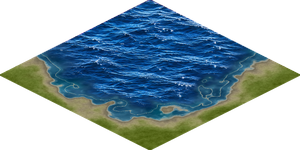
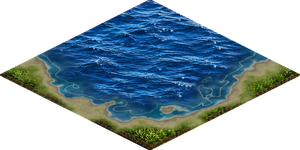
Rivers that run somewhere, and a coast that meets the grass
**The rivers were never an art problem.** A river is drawn as one picture per
tile, chosen by which of the tile's four *edge-sharing* neighbours also carry a
river. The generator walked rivers through the *eight*-neighbour set, which
includes the four tiles that touch only at a corner -- and two tiles sharing a
corner cannot be joined by any picture, because neither appears in the other's
mask. Both are drawn as a stub running to an edge with nothing on the far side.

So roughly a third of every river was orphaned: measured on three seeds, 15 of
45, 18 of 50 and 19 of 44 tiles had nowhere for their water to go. They were
generated in one adjacency and drawn in another, which is what "the rivers make
no sense" was. The walk now takes only edge-sharing steps, and the distance to
the sea is measured the same way so a river cannot stop one tile short of a mouth
it believes it has reached. A test generates worlds and fails on any orphan.

**The coast now meets the grass.** The shoreline ramp ended on (81, 99, 19),
which is exactly the grassland painting's average colour and none of its grain --
so a coast tile's inland half was the right green and perfectly smooth, sitting
against a grassland tile full of texture, and the join showed as a hard line. The
inland end takes the painting the same way the open sea took the ocean one, on
the far side of the sand so the beach is untouched.

Neither of these needed new art. The river art in rhYcivtextures is used for its
[…]

diff --git a/Engine/src/MapGeneration/ClassicWorldGenerator.cs b/Engine/src/MapGeneration/ClassicWorldGenerator.cs
@@ -261,7 +261,7 @@ internal static class ClassicWorldGenerator
                 path.Add(current);
                 if (distanceToOcean[current.X, current.Y] <= 1) break;
 
-                var choices = Neighbours(current.X, current.Y, width, height, wrapX)
+                var choices = EdgeNeighbours(current.X, current.Y, width, height, wrapX)
                     .Where(cell => terrain[cell.X, cell.Y] != TerrainType.Ocean && !visited.Contains(cell))
                     .Where(cell => terrain[cell.X, cell.Y] is not TerrainType.Glacier and not TerrainType.Mountains)
                     .Select(cell => new
@@ -307,7 +307,11 @@ internal static class ClassicWorldGenerator
         while (queue.Count > 0)
         {
             var current = queue.Dequeue();
-            foreach (var neighbour in Neighbours(current.X, current.Y, width, height, wrapX))
+
+            // Edge-sharing, to match the river walk: "next to the sea" has to mean
+            // the same thing to the generator as it does to the renderer, or a river
+            // stops one tile short of a mouth it thinks it has reached.
+            foreach (var neighbour in EdgeNeighbours(current.X, current.Y, width, height, wrapX))
             {
                 if (distance[neighbour.X, neighbour.Y] <= distance[current.X, current.Y] + 1) continue;
                 distance[neighbour.X, neighbour.Y] = distance[current.X, current.Y] + 1;
@@ -353,6 +357,38 @@ internal static class ClassicWorldGenerator
         for (var x = 0; x < width; x++)
             values[x, y] = (values[x, y] - minimum) / range;
         return values;
+    }
+
+    /// <summary>
+    /// The four tiles that share an <em>edge</em> with this one: NE, SE, SW, NW.
+    /// </summary>
+    /// <remarks>
+    /// These are the offsets <c>MapNavigationFunctions.DirectNeighbours</c> yields,
+    /// and they are the only steps a river may take. A river is drawn as one
+    /// picture per tile chosen by which of those four neighbours also carry a
+    /// river, so two river tiles that share only a <em>corner</em> cannot be joined
+    /// by any picture: neither appears in the other's mask, and both are drawn as a
+    /// stub running to an edge with nothing on the far side.
+    ///
+    /// The river walk used the eight-neighbour set, which includes the four
+    /// corner-touching tiles, so roughly half of every river's steps landed
+    /// somewhere the renderer had no way to connect to. That is why rivers came out
+    /// as a scatter of short disjointed squiggles -- they were generated in one
+    /// adjacency and drawn in another.
+    /// </remarks>
+    private static IEnumerable<Cell> EdgeNeighbours(int x, int y, int width, int height, bool wrapX)
+    {
+        var odd = y & 1;
+        int[][] offsets = [[odd, -1], [odd, 1], [-1 + odd, 1], [-1 + odd, -1]];
+        foreach (var offset in offsets)
+        {
+            var nx = x + offset[0];
+            var ny = y + offset[1];
+            if (ny < 0 || ny >= height) continue;
+            if (wrapX) nx = Wrap(nx, width);
+            else if (nx < 0 || nx >= width) continue;
+            yield return new Cell(nx, ny);
+        }
     }
 
     private static IEnumerable<Cell> Neighbours(int x, int y, int width, int height, bool wrapX)

diff --git a/RhyCiv.Tests/MapGeneration/RiversConnectTests.cs b/RhyCiv.Tests/MapGeneration/RiversConnectTests.cs
@@ -1,0 +1,87 @@
+using RhyCiv.Tests.TestFiles;
+using Model.Core.Mapping;
+
+using RhyCiv.Engine;
+using Model.Core;
+
+namespace RhyCiv.Tests.MapGeneration;
+
+/// <summary>
+/// Every river tile joins the river system it belongs to.
+/// <para>
+/// A river is drawn as one picture per tile, chosen by which of the tile's four
+/// <em>edge-sharing</em> neighbours also carry a river. Two river tiles that
+/// share only a corner cannot be joined by any picture — neither appears in the
+/// other's mask, so both are drawn as a stub running to an edge with nothing on
+/// the far side.
+/// </para>
+/// <para>
+/// The generator walked rivers through the eight-neighbour set, which includes
+/// the four corner-touching tiles, so roughly half of every river's steps landed
+/// somewhere the renderer could not connect. Rivers came out as a scatter of
+/// short disjointed squiggles: generated in one adjacency, drawn in another.
+/// </para>
+/// </summary>
+public class RiversConnectTests
+{
+    [Theory]
+    [InlineData(7)]
+    [InlineData(11)]
+    [InlineData(29)]
+    public void NoRiverTileStandsAlone(int seed)
+    {
+        // The world generator itself, not a saved map: this is about how rivers are
+        // laid down, so it has to lay some down.
+        var (_, _, rules) = CleanRoomGameFactory.CreateGame();
+        var config = new GameInitializationConfig
+        {
+            Rules = rules,
+            Random = new FastRandom(seed),
+            WorldSize = [60, 40],
+            Climate = 1,
+        };
+
+        var world = ClassicWorldGenerator.Generate(config, 60, 40);
+
+        var rivers = new List<(int X, int Y)>();
+        for (var y = 0; y < 40; y++)
+        for (var x = 0; x < 60; x++)
+        {
+            if (world.Rivers[x, y]) rivers.Add((x, y));
+        }
+
+        Assert.NotEmpty(rivers);
+
+        var orphans = rivers.Where(cell => !JoinsSomething(world, cell, 60, 40)).ToList();
+
+        Assert.True(orphans.Count == 0,
+            $"{orphans.Count} of {rivers.Count} river tiles share no edge with another river " +
+            "tile or the sea, so they can only be drawn as a stub running to nothing: " +
+            string.Join(", ", orphans.Take(8).Select(c => $"({c.X},{c.Y})")));
+    }
+
+    /// <summary>
+    /// Whether this river cell has anywhere for its water to go across a shared
+    /// edge: another river cell, or the sea. These are the four offsets
+    /// <c>DirectNeighbours</c> yields, which is what the renderer connects through.
+    /// </summary>
+    private static bool JoinsSomething(GeneratedWorld world, (int X, int Y) cell, int width, int height)
+    {
+        var odd = cell.Y & 1;
+        int[][] offsets = [[odd, -1], [odd, 1], [-1 + odd, 1], [-1 + odd, -1]];
+        foreach (var offset in offsets)
+        {
+            var nx = cell.X + offset[0];
+            var ny = cell.Y + offset[1];
+            if (ny < 0 || ny >= height) continue;
+            nx = ((nx % width) + width) % width;
+            if (world.Rivers[nx, ny] || world.Terrain[nx, ny] == TerrainType.Ocean)
+            {
+                return true;
+            }
+        }
+
+        return false;
+    }
+
+}

diff --git a/scripts/generate_coastline_iso.py b/scripts/generate_coastline_iso.py
@@ -76,6 +76,15 @@ F_shelf  = FBM(4, 3)
 # finished -- the coast keeps the calm it was tuned for.
 OCEAN_PAINTING = (Path(__file__).resolve().parents[1]
                   / "RaylibUI" / "FOSSart" / "Terrain" / "ocean.png")
+
+# And the land end is the grassland painting, for the same reason. The ramp below
+# ends on (81, 99, 19), which is exactly the painting's *average* colour and none
+# of its grain -- so a coast tile's inland half was the right green and perfectly
+# smooth, sitting against a grassland tile full of texture. The join showed as a
+# hard line, which is what "coastal tiles still need a little grass texture to
+# blend in" is.
+GRASS_PAINTING = (Path(__file__).resolve().parents[1]
+                  / "RaylibUI" / "FOSSart" / "Terrain" / "grassland.png")
 F_swellw = FBM(7, 3)
 F_spray  = FBM(150, 2)
 F_tone   = FBM(13, 3)
@@ -185,16 +194,17 @@ CENTRE_IRREGULARITY = 0.55
 # Most surf the shoreline may ever be covered by.
 FOAM_CEILING = 0.34
 
-def _load_painting():
-    """The ocean painting, resampled onto the supersampled canvas."""
-    if not OCEAN_PAINTING.exists():
-        print(f"note: {OCEAN_PAINTING.name} not found; open water stays procedural")
+def _load_painting(path, what):
+    """A terrain painting, resampled onto the supersampled canvas."""
+    if not path.exists():
+        print(f"note: {path.name} not found; {what} stays procedural")
         return None
-    art = Image.open(OCEAN_PAINTING).convert("RGB").resize((sw, sh), Image.LANCZOS)
+    art = Image.open(path).convert("RGB").resize((sw, sh), Image.LANCZOS)
     return np.asarray(art, dtype=float)
 
 
-_painting = _load_painting()
+_painting = _load_painting(OCEAN_PAINTING, "open water")
+_grass = _load_painting(GRASS_PAINTING, "the inland end")
 
 
 def build(N, E, Sc, Wc):
@@ -303,6 +313,16 @@ def build(N, E, Sc, Wc):
         deep = (1 - smoothstep(-130, -30, d_col)) * sea
         w = (0.88 * deep)[..., None]
         img = img * (1 - w) + _painting * w
+
+    # ---- the painted land ---------------------------------------------------
+    # Inland takes its grain from the grassland painting, on the far side of the
+    # sand so the beach and the wet strip are left exactly as they were. By the
+    # time the coast tile meets an ordinary grassland tile it is that painting,
+    # and the two no longer meet along a visible line.
+    if _grass is not None:
+        inland = smoothstep(18, 62, d)
+        w = (0.9 * inland)[..., None]
+        img = img * (1 - w) + _grass * w
 
     # ---- surf ---------------------------------------------------------------
     # Surf is a broken thread along the waterline, and it is off-white rather than
